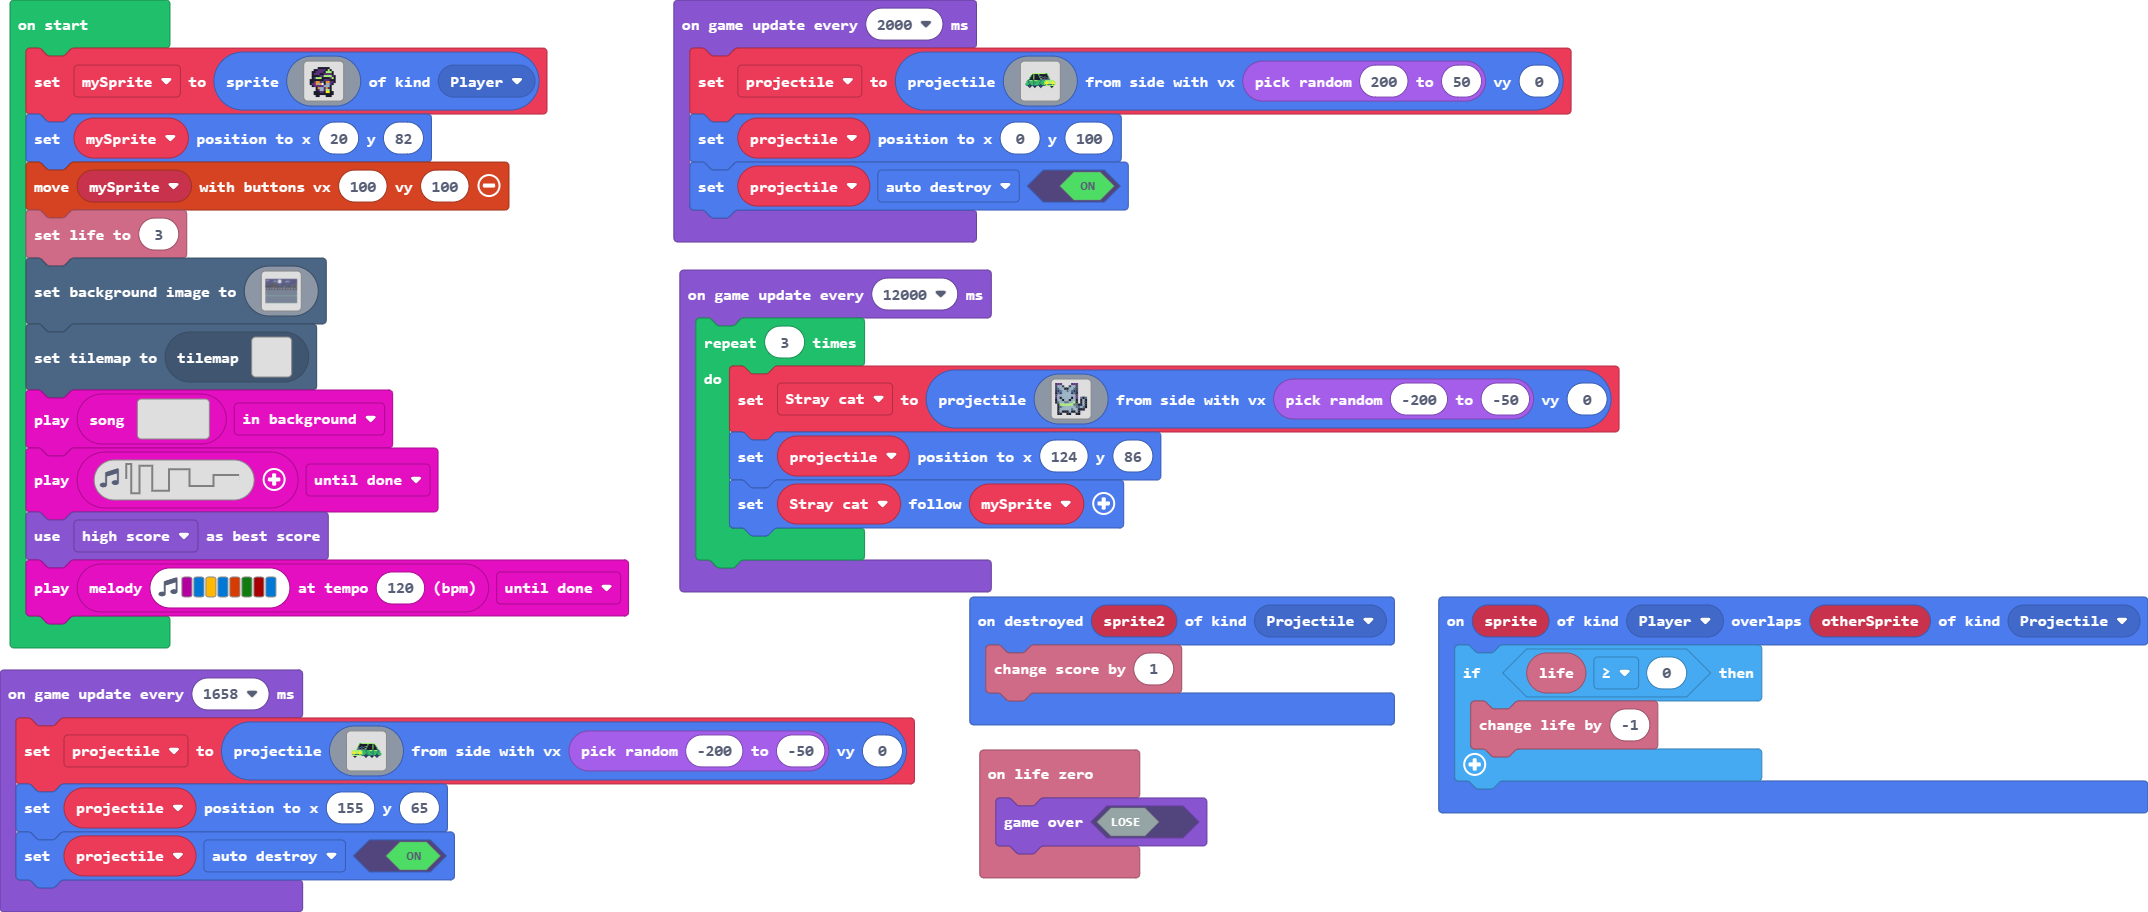
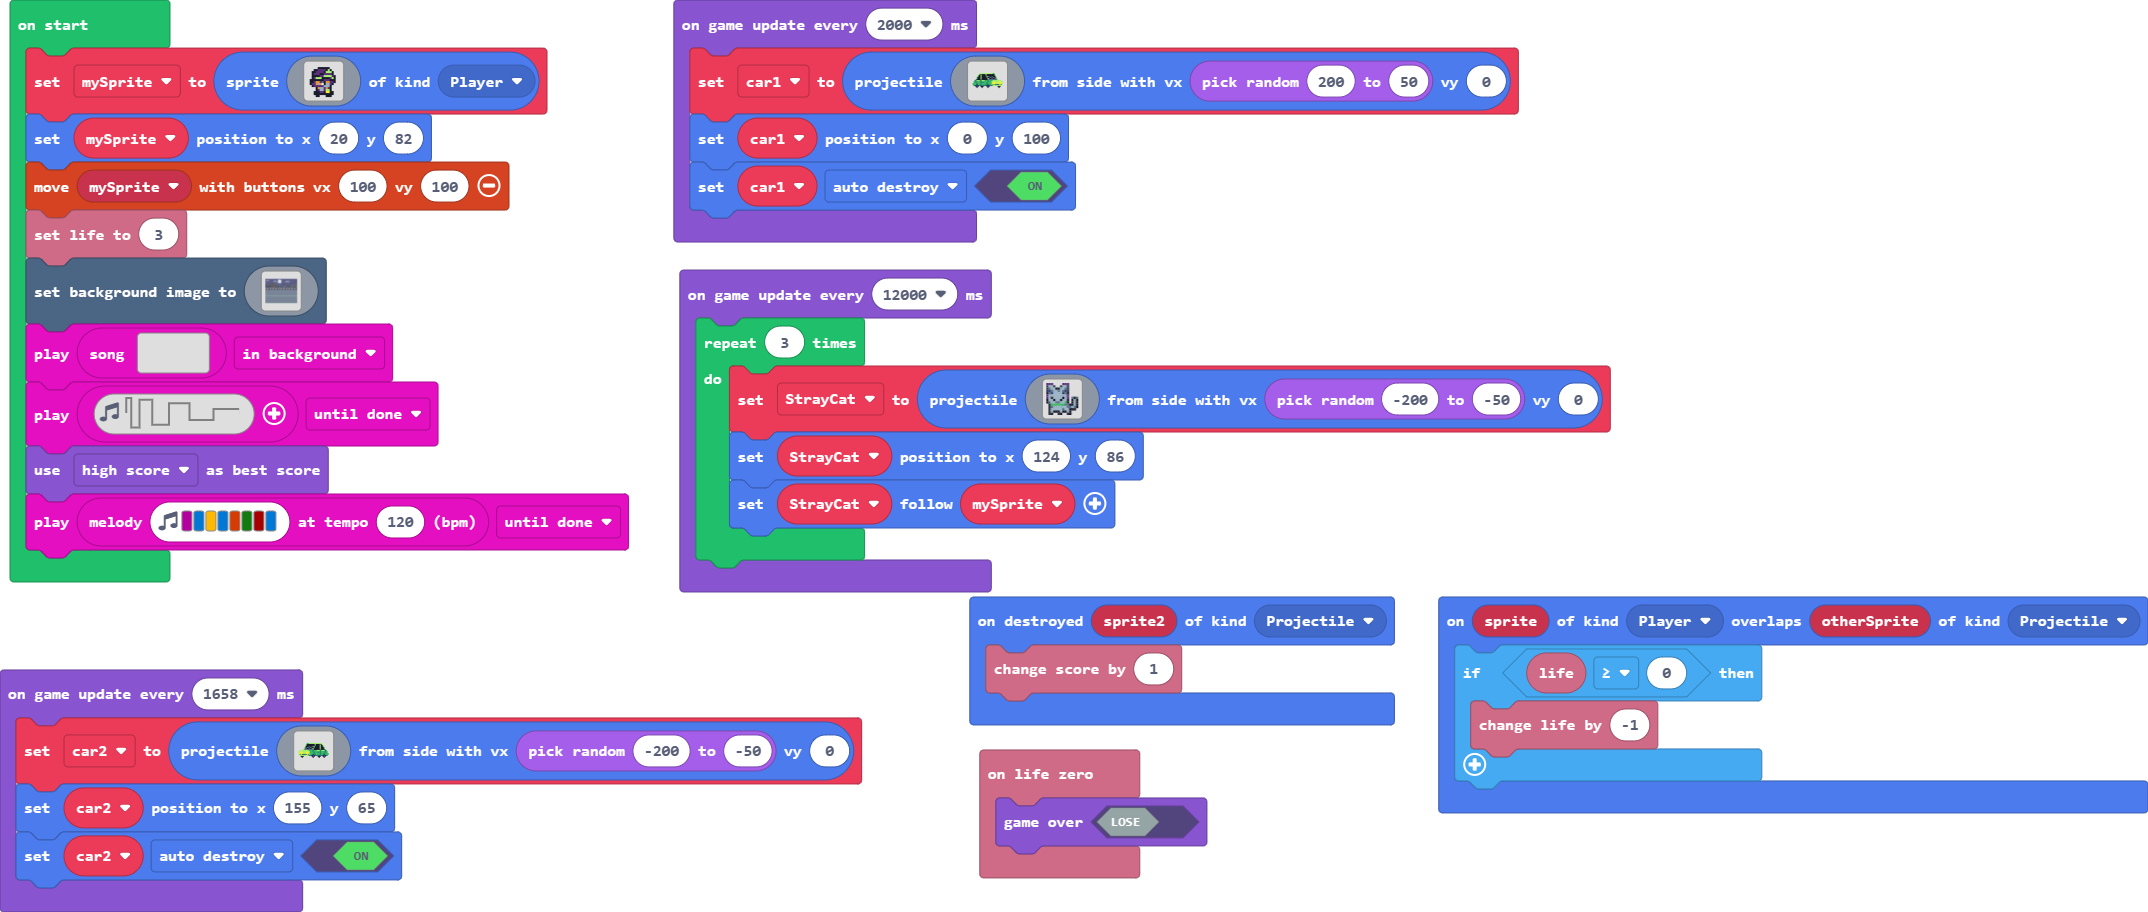
Update main.blocks, main.ts, main.py, tilemap.g.jres, tilemap.g.ts, images.g.jres, images.g.ts

diff --git a/main.ts b/main.ts
@@ -12,8 +12,9 @@ sprites.onOverlap(SpriteKind.Player, SpriteKind.Projectile, function (sprite, ot
 info.onLifeZero(function () {
     game.gameOver(false)
 })
-let projectile: Sprite = null
-let Stray_cat: Sprite = null
+let car2: Sprite = null
+let car1: Sprite = null
+let StrayCat: Sprite = null
 let mySprite = sprites.create(img`
     . . . . . . . . . . . . . . . . 
     . . . . . f f f f f f . . . . . 
@@ -157,20 +158,19 @@ scene.setBackgroundImage(img`
     bbbbbbbbbbbbbbbbbbbbbbbbbbbbbbbbbbbbbbbbbbbbbbbbbbbbbbbbbbbbbbbbbbbbbbbbbbbbbbbbbbbbbbbbbbbbbbbbbbbbbbbbbbbbbbbbbbbbbbbbbbbbbbbbbbbbbbbbbbbbbbbbbbbbbbbbbbbbbbbb
     bbbbbbbbbbbbbbbbbbbbbbbbbbbbbbbbbbbbbbbbbbbbbbbbbbbbbbbbbbbbbbbbbbbbbbbbbbbbbbbbbbbbbbbbbbbbbbbbbbbbbbbbbbbbbbbbbbbbbbbbbbbbbbbbbbbbbbbbbbbbbbbbbbbbbbbbbbbbbbbb
     `)
-tiles.setCurrentTilemap(tilemap`level1`)
 music.play(music.createSong(hex`00780004080200`), music.PlaybackMode.InBackground)
 music.play(music.createSoundEffect(WaveShape.Square, 5000, 1, 255, 0, 575, SoundExpressionEffect.None, InterpolationCurve.Logarithmic), music.PlaybackMode.UntilDone)
 game.setGameOverScoringType(game.ScoringType.HighScore)
 music.play(music.stringPlayable("C E A E B G C5 E ", 120), music.PlaybackMode.UntilDone)
 game.onUpdateInterval(12000, function () {
     for (let index = 0; index < 3; index++) {
-        Stray_cat = sprites.createProjectileFromSide(assets.image`Stray cat`, randint(-200, -50), 0)
-        projectile.setPosition(124, 86)
-        Stray_cat.follow(mySprite)
+        StrayCat = sprites.createProjectileFromSide(assets.image`Stray cat`, randint(-200, -50), 0)
+        StrayCat.setPosition(124, 86)
+        StrayCat.follow(mySprite)
     }
 })
 game.onUpdateInterval(2000, function () {
-    projectile = sprites.createProjectileFromSide(img`
+    car1 = sprites.createProjectileFromSide(img`
         ........222222222222277.........
         .......2f7ffff2ffffffff2........
         ......2ff2ffff7ffffffff7........
@@ -188,11 +188,11 @@ game.onUpdateInterval(2000, function () {
         .....f....f.....f..........f....
         ................................
         `, randint(200, 50), 0)
-    projectile.setPosition(0, 100)
-    projectile.setFlag(SpriteFlag.AutoDestroy, true)
+    car1.setPosition(0, 100)
+    car1.setFlag(SpriteFlag.AutoDestroy, true)
 })
 game.onUpdateInterval(1658, function () {
-    projectile = sprites.createProjectileFromSide(img`
+    car2 = sprites.createProjectileFromSide(img`
         .........772222222222222........
         ........2ffffffff2ffff7f2.......
         ........7ffffffff7ffff2ff2......
@@ -210,6 +210,6 @@ game.onUpdateInterval(1658, function () {
         ....f..........f.....f....f.....
         ................................
         `, randint(-200, -50), 0)
-    projectile.setPosition(155, 65)
-    projectile.setFlag(SpriteFlag.AutoDestroy, true)
+    car2.setPosition(155, 65)
+    car2.setFlag(SpriteFlag.AutoDestroy, true)
 })

diff --git a/tilemap.g.ts b/tilemap.g.ts
@@ -65,6 +65,25 @@ namespace myTiles {
 . . . . . . . . . . . . . . . . 
 . . . . . . . . . . . . . . . . 
 `, [myTiles.transparency16], TileScale.Sixteen);
+            case "level3":
+            case "level3":return tiles.createTilemap(hex`1000100000000000000000000000000000000000000000000000000000000000000000000000000000000000000000000000000000000000000000000000000000000000000000000000000000000000000000000000000000000000000000000000000000000000000000000000000000000000000000000000000000000000000000000000000000000000000000000000000000000000000000000000000000000000000000000000000000000000000000000000000000000000000000000000000000000000000000000000000000000000000000000000000000000000000000000000000000000000000000000000000000000000000000000000000000000000`, img`
+. . . . . . . . . . . . . . . . 
+. . . . . . . . . . . . . . . . 
+. . . . . . . . . . . . . . . . 
+. . . . . . . . . . . . . . . . 
+. . . . . . . . . . . . . . . . 
+. . . . . . . . . . . . . . . . 
+. . . . . . . . . . . . . . . . 
+. . . . . . . . . . . . . . . . 
+. . . . . . . . . . . . . . . . 
+. . . . . . . . . . . . . . . . 
+. . . . . . . . . . . . . . . . 
+. . . . . . . . . . . . . . . . 
+. . . . . . . . . . . . . . . . 
+. . . . . . . . . . . . . . . . 
+. . . . . . . . . . . . . . . . 
+. . . . . . . . . . . . . . . . 
+`, [myTiles.transparency16], TileScale.Sixteen);
         }
         return null;
     })

diff --git a/images.g.ts b/images.g.ts
@@ -128,8 +128,8 @@ bbbbbbbbbbbbbbbbbbbbbbbbbbbbbbbbbbbbbbbbbbbbbbbbbbbbbbbbbbbbbbbbbbbbbbbbbbbbbbbb
 `;
             case "image2":
             case "myImage0":return img`
-. . . . . . . . . . . . . . . . 
-. . . . . . . . . . . . . . . . 
+. . . . . . . . . . . . . . 3 3 
+. . . . . . . . . . . . . 3 . . 
 . . . . . . . . . . . . . . . . 
 . . . . . . . . . . . . . . . . 
 . . . . . . . . . . . . . . . . 
@@ -155,8 +155,8 @@ f b 8 d d d d 8 b f . . . .
 e d d d d d d d d e . . . . 
 e d f d d d d f d e . b f b 
 f d d f d d f d d f . f d f 
-f b d d b b d d 2 f . f d f 
-. f 2 2 2 2 2 2 b b f f d f 
+f b d d b b d d 7 f . f d f 
+. f 7 7 7 7 7 7 b b f f d f 
 . f b d d d d d d b b d b f 
 . f d d d d d b d d f f f . 
 . f d f f f d f f d f . . . 

diff --git a/main.py b/main.py
@@ -7,10 +7,16 @@ def on_on_destroyed(sprite2):
 sprites.on_destroyed(SpriteKind.projectile, on_on_destroyed)
 
 def on_on_overlap(sprite, otherSprite):
-    game.game_over(False)
+    if info.life() >= 0:
+        info.change_life_by(-1)
 sprites.on_overlap(SpriteKind.player, SpriteKind.projectile, on_on_overlap)
 
+def on_life_zero():
+    game.game_over(False)
+info.on_life_zero(on_life_zero)
+
 projectile: Sprite = None
+Stray_cat: Sprite = None
 mySprite = sprites.create(img("""
         . . . . . . . . . . . . . . . . 
             . . . . . f f f f f f . . . . . 
@@ -32,6 +38,7 @@ mySprite = sprites.create(img("""
     SpriteKind.player)
 mySprite.set_position(20, 82)
 controller.move_sprite(mySprite, 100, 100)
+info.set_life(3)
 scene.set_background_image(img("""
     8888888888888888888888888888888888888888888888888888888888888888888888888888888888888888888888888888888888888888888888888888888888888888888888888888888888888888
         8888888888888888888888888888888888888888888888888888888888888888888888888888888888888888888888888888888888888888888888888888888888888888888888888888888888888188
@@ -55,27 +62,27 @@ scene.set_background_image(img("""
[22 lines of base64/hex data omitted]
-        ffcfffcffffffff2fbffffffffffbffffffffffffffffffffffbffffffffbbfffffffffffffbffffffffffffffffbffffffffbffffffbbfffffffffbffffffffbbffffbbffffffffffffffffffffffff
[1 lines of base64/hex data omitted]
-        ffffffffffffffffffffffffffffffffffffffffffffffffffffffffffffffffffffffffffffffffffffffffffffffffffffffffffffbbfffffffffbffffffffffffffffffffffffffffffffffffffff
[19 lines of base64/hex data omitted]
         ffffffffffffffffffffffffffffffffffffffffffffffffffffffffffffffffffffffffffffffffffffffffffffffffffffffffffffffffffffffffffffffffffffffffffffffffffffffffffffffff
         cccccccccccccccccccccccccccccccccccccccccccccccccccccccccccccccccccccccccccccccccccccccccccccccccccccccccccccccccccccccccccccccccccccccccccccccccccccccccccccccc
         1111111111111111111111111111111111111111111111111111111111111111111111111111111111111111111111111111111111111111111111111111111111111111111111111111111111111111
@@ -86,13 +93,13 @@ scene.set_background_image(img("""
[3 lines of base64/hex data omitted]
-        ffffffffffffffffffffffffffffffffffffffffffffffffffffffffffffffffffffffffffffffffffffffffffffffffffffffffffffffffffffffffffffffffffffffffffffffffffffffffffffffff
+        cccccccccccccccccccccccccccccccccccccccccccccccccccccccccccccccccccccccccccccccccccccccccccccccccccccccccccccccccccccccccccccccccccccccccccccccccccccccccccccccc
         bbbbbbbbbbbbbbbbbbbbbbbbbbbbbbbbbbbbbbbbbbbbbbbbbbbbbbbbbbbbbbbbbbbbbbbbbbbbbbbbbbbbbbbbbbbbbbbbbbbbbbbbbbbbbbbbbbbbbbbbbbbbbbbbbbbbbbbbbbbbbbbbbbbbbbbbbbbbbbbb
         bbbbbbbbbbbbbbbbbbbbbbbbbbbbbbbbbbbbbbbbbbbbbbbbbbbbbbbbbbbbbbbbbbbbbbbbbbbbbbbbbbbbbbbbbbbbbbbbbbbbbbbbbbbbbbbbbbbbbbbbbbbbbbbbbbbbbbbbbbbbbbbbbbbbbbbbbbbbbbbb
         bbbbbbbbbbbbbbbbbbbbbbbbbbbbbbbbbbbbbbbbbbbbbbbbbbbbbbbbbbbbbbbbbbbbbbbbbbbbbbbbbbbbbbbbbbbbbbbbbbbbbbbbbbbbbbbbbbbbbbbbbbbbbbbbbbbbbbbbbbbbbbbbbbbbbbbbbbbbbbbb
         bbbbbbbbbbbbbbbbbbbbbbbbbbbbbbbbbbbbbbbbbbbbbbbbbbbbbbbbbbbbbbbbbbbbbbbbbbbbbbbbbbbbbbbbbbbbbbbbbbbbbbbbbbbbbbbbbbbbbbbbbbbbbbbbbbbbbbbbbbbbbbbbbbbbbbbbbbbbbbbb
         bbbbbbbbbbbbbbbbbbbbbbbbbbbbbbbbbbbbbbbbbbbbbbbbbbbbbbbbbbbbbbbbbbbbbbbbbbbbbbbbbbbbbbbbbbbbbbbbbbbbbbbbbbbbbbbbbbbbbbbbbbbbbbbbbbbbbbbbbbbbbbbbbbbbbbbbbbbbbbbb
-        bbbbbbbbbbbbbbbbbbbbbbbbbbbbbbbbbbbbbbbbbbbbbbbbbbbbbbbbbbbbbbbbbbbbbbbbbbbbbbbbbbbbbbbbbbbbbbbbbbbbbbbbbbbbbbbbbbbbbbbbbbbbbbbbbbbbbbbbbbbbbbbbbbbbbbbbbb2bbbbb
+        bbbbbbbbbbbbbbbbbbbbbbbbbbbbbbbbbbbbbbbbbbbbbbbbbbbbbbbbbbbbbbbbbbbbbbbbbbbbbbbbbbbbbbbbbbbbbbbbbbbbbbbbbbbbbbbbbbbbbbbbbbbbbbbbbbbbbbbbbbbbbbbbbbbbbbbbbbbbbbbb
         bbbbbbbbbbbbbbbbbbbbbbbbbbbbbbbbbbbbbbbbbbbbbbbbbbbbbbbbbbbbbbbbbbbbbbbbbbbbbbbbbbbbbbbbbbbbbbbbbbbbbbbbbbbbbbbbbbbbbbbbbbbbbbbbbbbbbbbbbbbbbbbbbbbbbbbbbbbbbbbb
         bbbbbbbbbbbbbbbbbbbbbbbbbbbbbbbbbbbbbbbbbbbbbbbbbbbbbbbbbbbbbbbbbbbbbbbbbbbbbbbbbbbbbbbbbbbbbbbbbbbbbbbbbbbbbbbbbbbbbbbbbbbbbbbbbbbbbbbbbbbbbbbbbbbbbbbbbbbbbbbb
         bbbbbbbbbbbbbbbbbbbbbbbbbbbbbbbbbbbbbbbbbbbbbbbbbbbbbbbbbbbbbbbbbbbbbbbbbbbbbbbbbbbbbbbbbbbbbbbbbbbbbbbbbbbbbbbbbbbbbbbbbbbbbbbbbbbbbbbbbbbbbbbbbbbbbbbbbbbbbbbb
@@ -153,9 +160,6 @@ scene.set_background_image(img("""
         bbbbbbbbbbbbbbbbbbbbbbbbbbbbbbbbbbbbbbbbbbbbbbbbbbbbbbbbbbbbbbbbbbbbbbbbbbbbbbbbbbbbbbbbbbbbbbbbbbbbbbbbbbbbbbbbbbbbbbbbbbbbbbbbbbbbbbbbbbbbbbbbbbbbbbbbbbbbbbbb
         bbbbbbbbbbbbbbbbbbbbbbbbbbbbbbbbbbbbbbbbbbbbbbbbbbbbbbbbbbbbbbbbbbbbbbbbbbbbbbbbbbbbbbbbbbbbbbbbbbbbbbbbbbbbbbbbbbbbbbbbbbbbbbbbbbbbbbbbbbbbbbbbbbbbbbbbbbbbbbbb
         bbbbbbbbbbbbbbbbbbbbbbbbbbbbbbbbbbbbbbbbbbbbbbbbbbbbbbbbbbbbbbbbbbbbbbbbbbbbbbbbbbbbbbbbbbbbbbbbbbbbbbbbbbbbbbbbbbbbbbbbbbbbbbbbbbbbbbbbbbbbbbbbbbbbbbbbbbbbbbbb
-"""))
-tiles.set_current_tilemap(tilemap("""
-    level1
 """))
 music.play(music.create_song(hex("""
         00780004080200
@@ -170,10 +174,21 @@ music.play(music.create_sound_effect(WaveShape.SQUARE,
         SoundExpressionEffect.NONE,
         InterpolationCurve.LOGARITHMIC),
     music.PlaybackMode.UNTIL_DONE)
+game.set_game_over_scoring_type(game.ScoringType.HIGH_SCORE)
 music.play(music.string_playable("C E A E B G C5 E ", 120),
     music.PlaybackMode.UNTIL_DONE)
 
 def on_update_interval():
+    global Stray_cat
+    for index in range(3):
+        Stray_cat = sprites.create_projectile_from_side(assets.image("""
+            Stray cat
+        """), randint(-200, -50), 0)
+        projectile.set_position(124, 86)
+        Stray_cat.follow(mySprite)
+game.on_update_interval(12000, on_update_interval)
+
+def on_update_interval2():
     global projectile
     projectile = sprites.create_projectile_from_side(img("""
             ........222222222222277.........
@@ -197,9 +212,9 @@ def on_update_interval():
         0)
     projectile.set_position(0, 100)
     projectile.set_flag(SpriteFlag.AUTO_DESTROY, True)
-game.on_update_interval(2000, on_update_interval)
+game.on_update_interval(2000, on_update_interval2)
 
-def on_update_interval2():
+def on_update_interval3():
     global projectile
     projectile = sprites.create_projectile_from_side(img("""
             .........772222222222222........
@@ -223,4 +238,4 @@ def on_update_interval2():
         0)
     projectile.set_position(155, 65)
     projectile.set_flag(SpriteFlag.AUTO_DESTROY, True)
-game.on_update_interval(1658, on_update_interval2)
+game.on_update_interval(1658, on_update_interval3)
